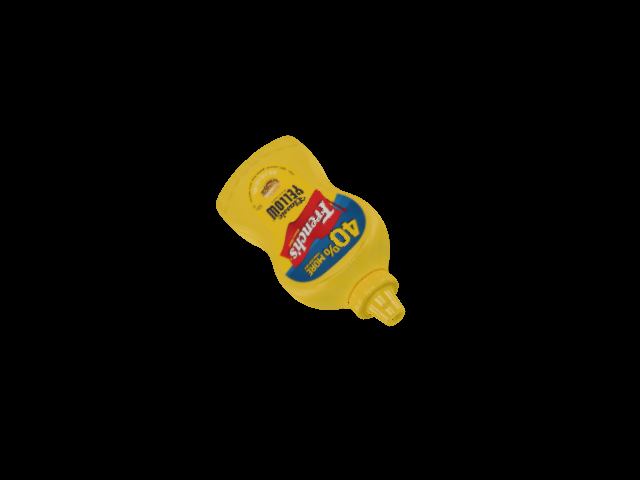
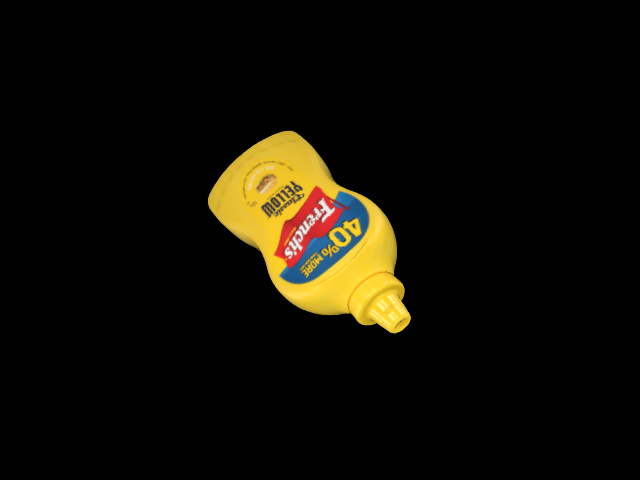
Use pyrender in order to perform headless rendering w/ EGL

Changed region(s): [[0.3125, 0.25, 0.6562, 0.7188]]

diff --git a/scripts/test_rendering.py b/scripts/test_rendering.py
@@ -1,0 +1,44 @@
+import cv2
+import numpy as np
+import os
+import sys
+import trimesh
+
+# Force rendering with EGL
+os.environ["PYOPENGL_PLATFORM"] = "egl"
+import pyrender
+
+# Load the mesh
+trimesh_mesh = trimesh.load(str(sys.argv[1]))
+mesh = pyrender.Mesh.from_trimesh(trimesh_mesh)
+
+# Create the scene
+scene = pyrender.Scene(bg_color=[0.0, 0.0, 0.0])
+
+# Insert the object
+object_pose = np.array([
+       [0.303053,-0.452284,  0.332065, 0.0],
+       [0.545211, 0.0800298,-0.452284, 0.0],
+       [0.132566, 0.545211,  0.303053,-0.3],
+       [0.0,      0.0,       0.0,      1.0],
+])
+scene.add(mesh, pose=object_pose)
+
+
+# Create and insert the camera
+camera_width = 640
+camera_height = 480
+camera = pyrender.IntrinsicsCamera(fx=614.0, fy=614.0, cx=camera_width/2.0, cy=camera_height/2.0)
+scene.add(camera)
+
+# Create and insert the light
+light = pyrender.SpotLight(color=np.ones(3), intensity=1.5, innerConeAngle=np.pi/16.0)
+scene.add(light)
+
+# Render the scene
+renderer = pyrender.OffscreenRenderer(camera_width, camera_height)
+render_rgb, render_depth = renderer.render(scene)
+
+# Save the image
+render_rgb = cv2.cvtColor(render_rgb, cv2.COLOR_RGB2BGR)
+cv2.imwrite("./test-renderer_output.png", render_rgb)
